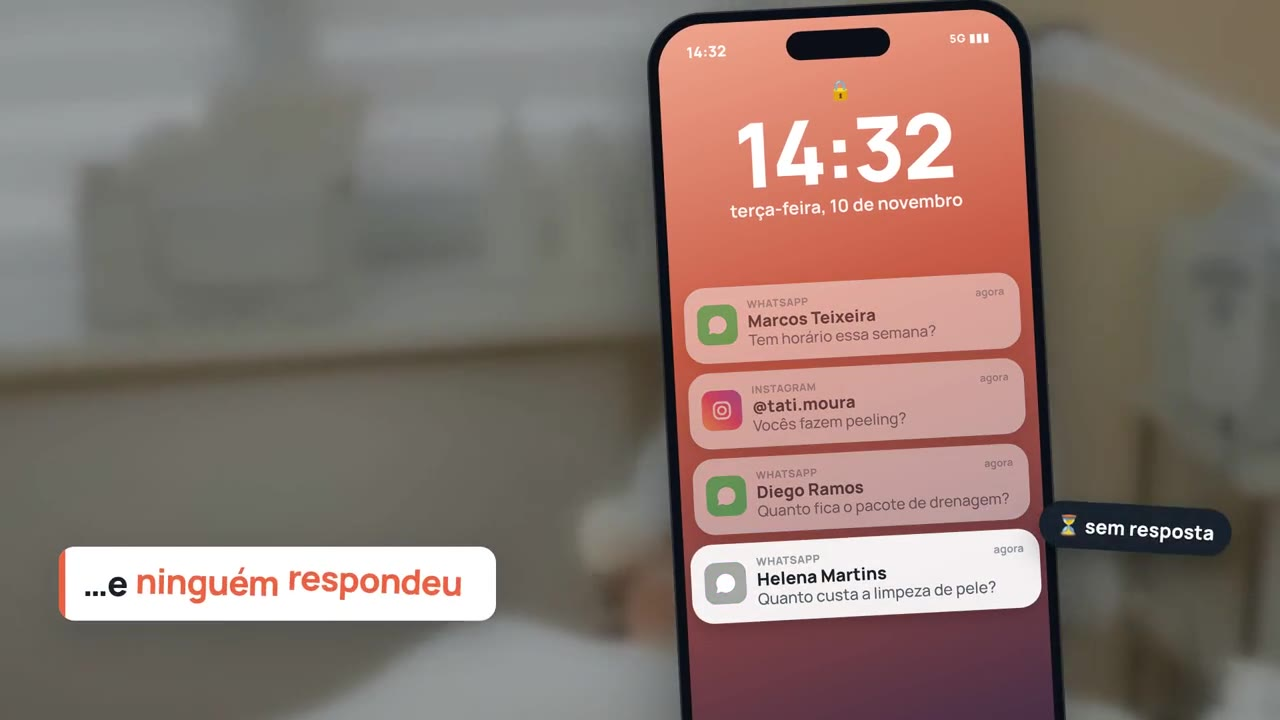
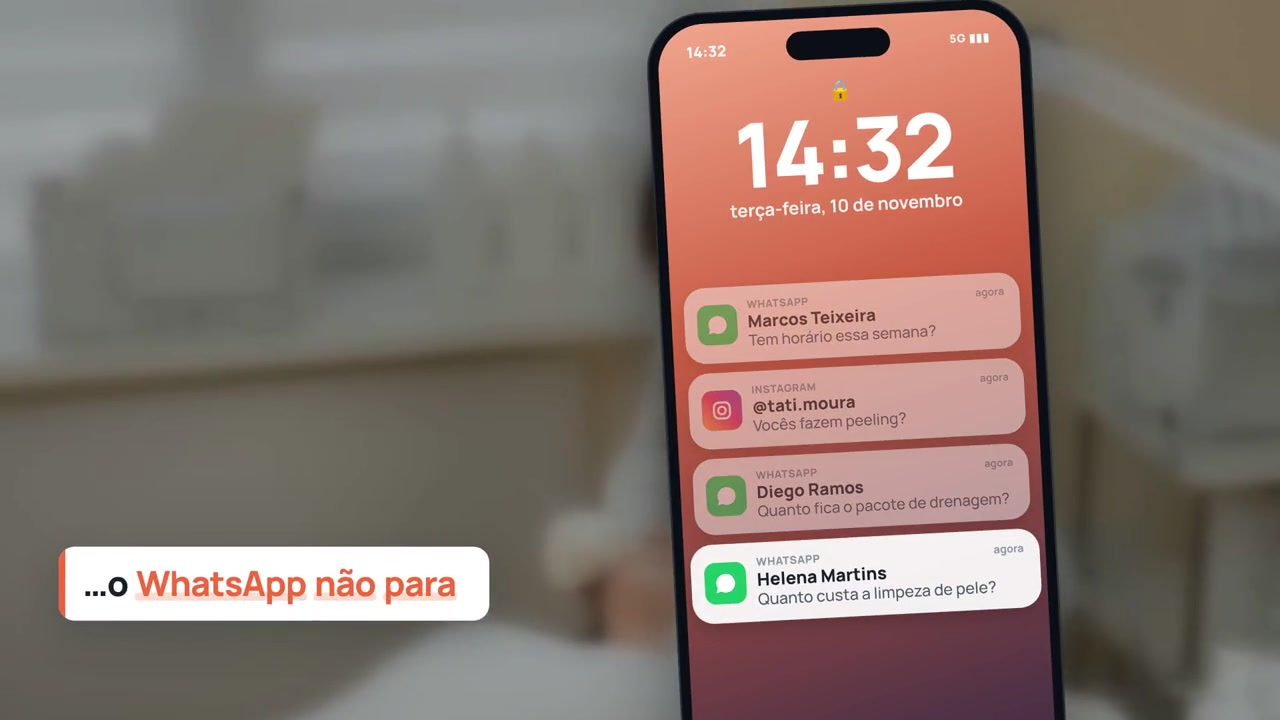
Site: capa do video passa a ser o celular com as mensagens acumuladas
Claude-Session: https://claude.ai/code/session_01KRFze6YVCJoxjs83eUxDZD

diff --git a/site/index.html b/site/index.html
@@ -334,7 +334,7 @@ footer{padding-block:36px 48px;color:var(--ink3);font-size:14px;text-align:cente
 
 <section id="video" class="glow"><div class="wrap">
   <div class="head center"><span class="eyb">1 minuto que vale a sua atenção</span><h2>Você perdeu uma venda hoje. <br class="dsk">E&nbsp;nem ficou sabendo.</h2><p class="lead">Foi aquela mensagem que chegou enquanto você atendia outra pessoa. Aperte o play e veja o que a Renata fez com a&nbsp;dela.</p></div>
-  <div class="vbox tz" id="vbox"><video id="vid" src="video/historia-renata.mp4?v=4" poster="video/historia-capa.jpg" muted playsinline preload="metadata" aria-label="Vídeo: a história da Renata e da mensagem que ficou sem resposta"></video>
+  <div class="vbox tz" id="vbox"><video id="vid" src="video/historia-renata.mp4?v=4" poster="video/historia-capa.jpg?v=2" muted playsinline preload="metadata" aria-label="Vídeo: a história da Renata e da mensagem que ficou sem resposta"></video>
    <button class="tzk" id="vidSnd" type="button"><i>▶</i> Assistir com som · 1 min</button>
    <div class="tze"><p>Helena está sem resposta há <b id="tzT">0:00</b></p><button class="tzp" id="vidPlay" type="button"><i>▶</i> Ver o que aconteceu</button><span>1 minuto · com som</span></div></div>
   <p class="fine center">História de exemplo, com imagens ilustrativas e as telas reais do Oi Nanda.</p>
